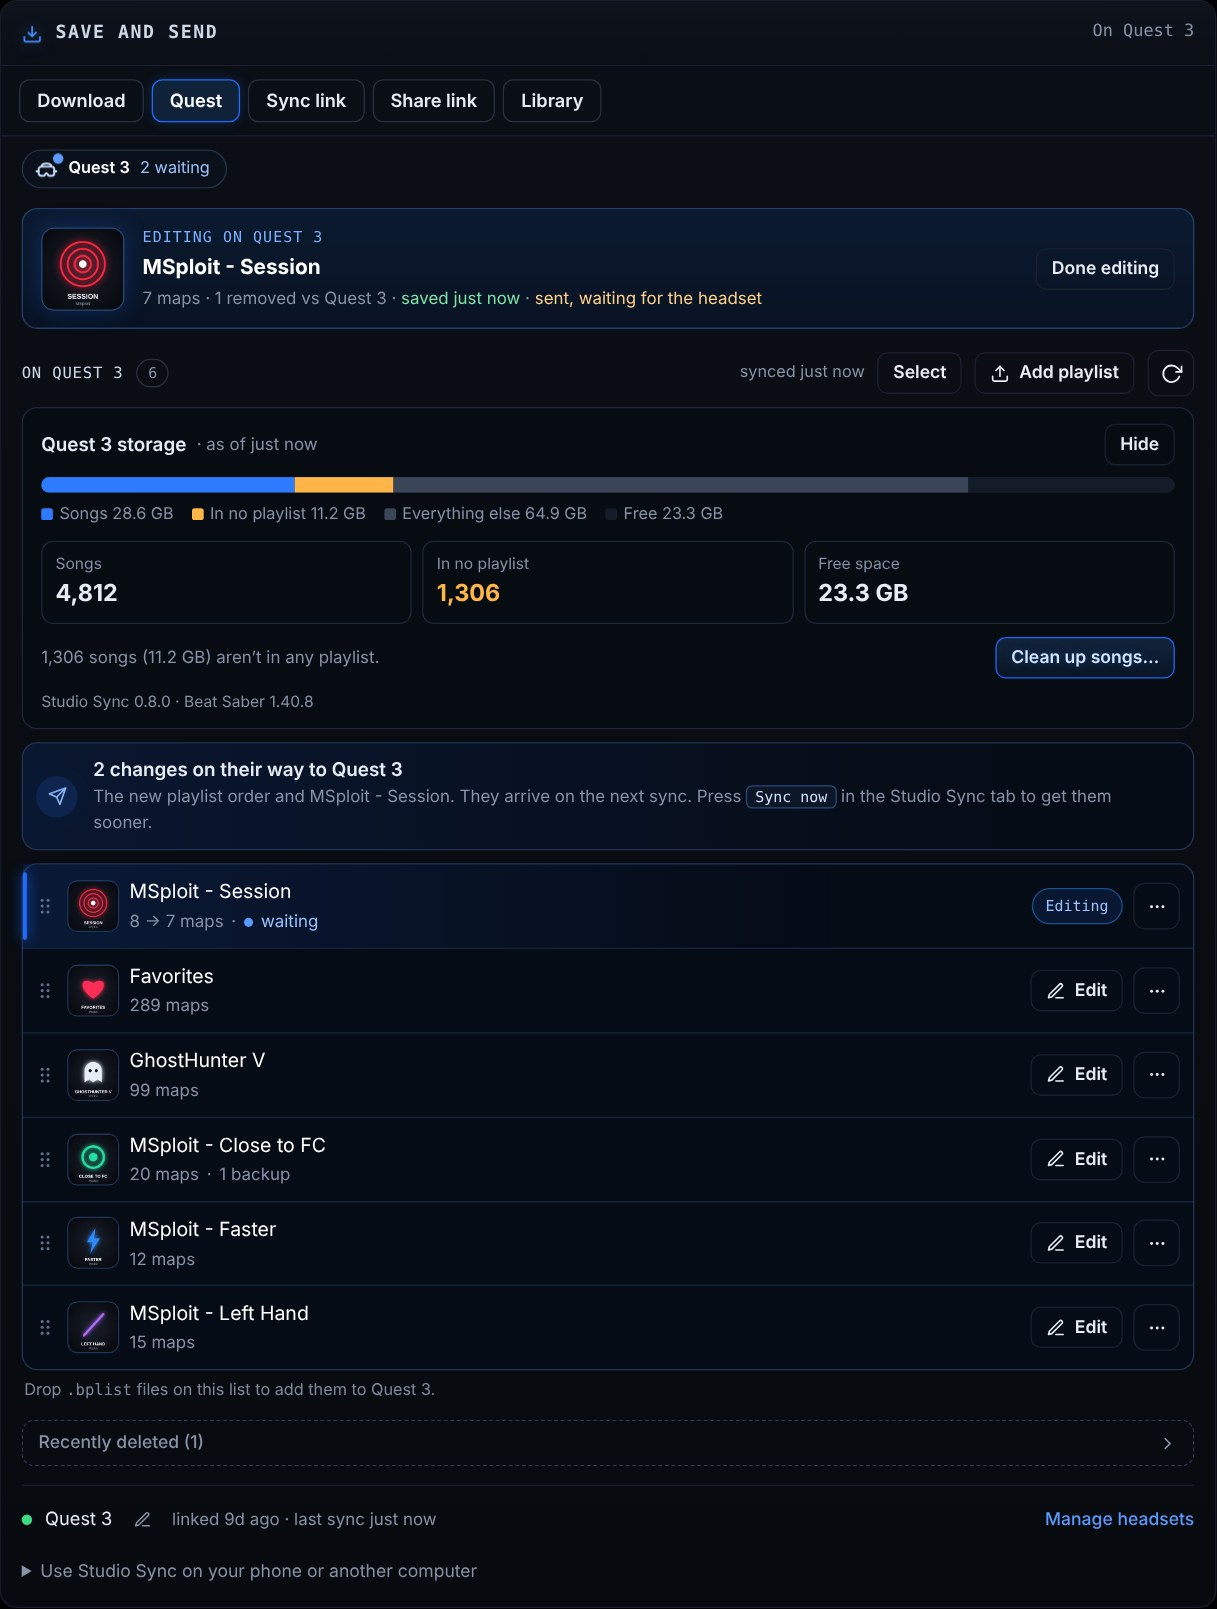
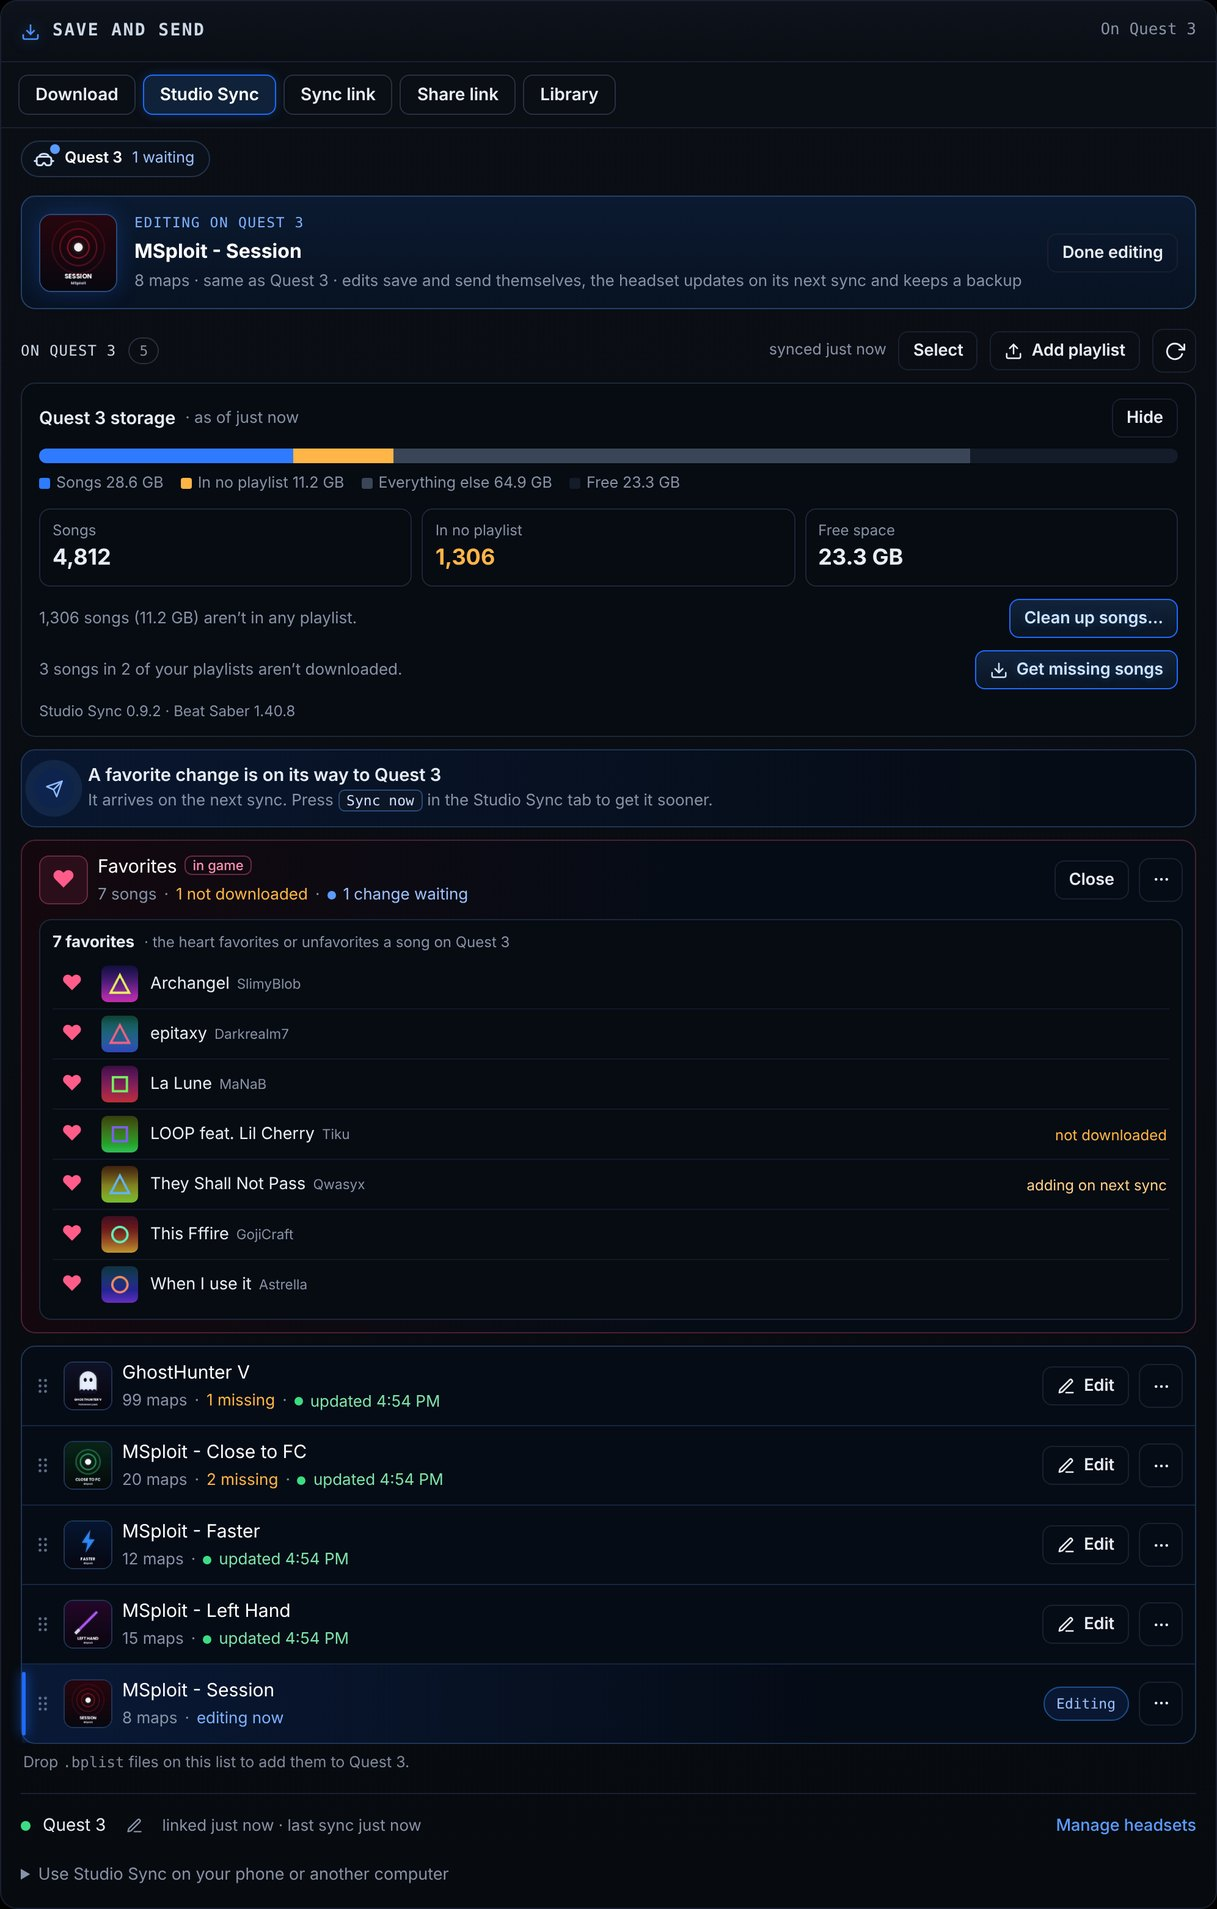
README: Studio screenshot with favorites

diff --git a/README.md b/README.md
@@ -16,7 +16,7 @@ It works the other way too. The playlists already on your headset show up in Stu
 - **Nothing gets lost.** Every edit keeps a backup, deleted playlists wait 30 days in Recently deleted, and a new playlist never overwrites one with the same name.
 - **More than one Quest?** Link them all and send to one or every headset.
 
-![Studio Sync in Playlist Studio: the storage card, a playlist being edited, and a new order on its way to the headset](docs/studio.jpg)
+![Studio Sync in Playlist Studio: the storage card, a playlist being edited, and your in-game favorites with a change on its way to the headset](docs/studio.jpg)
 
 ## Use it
 1. Install `StudioSync.qmod` with your mod manager (MBF, QuestPatcher).
